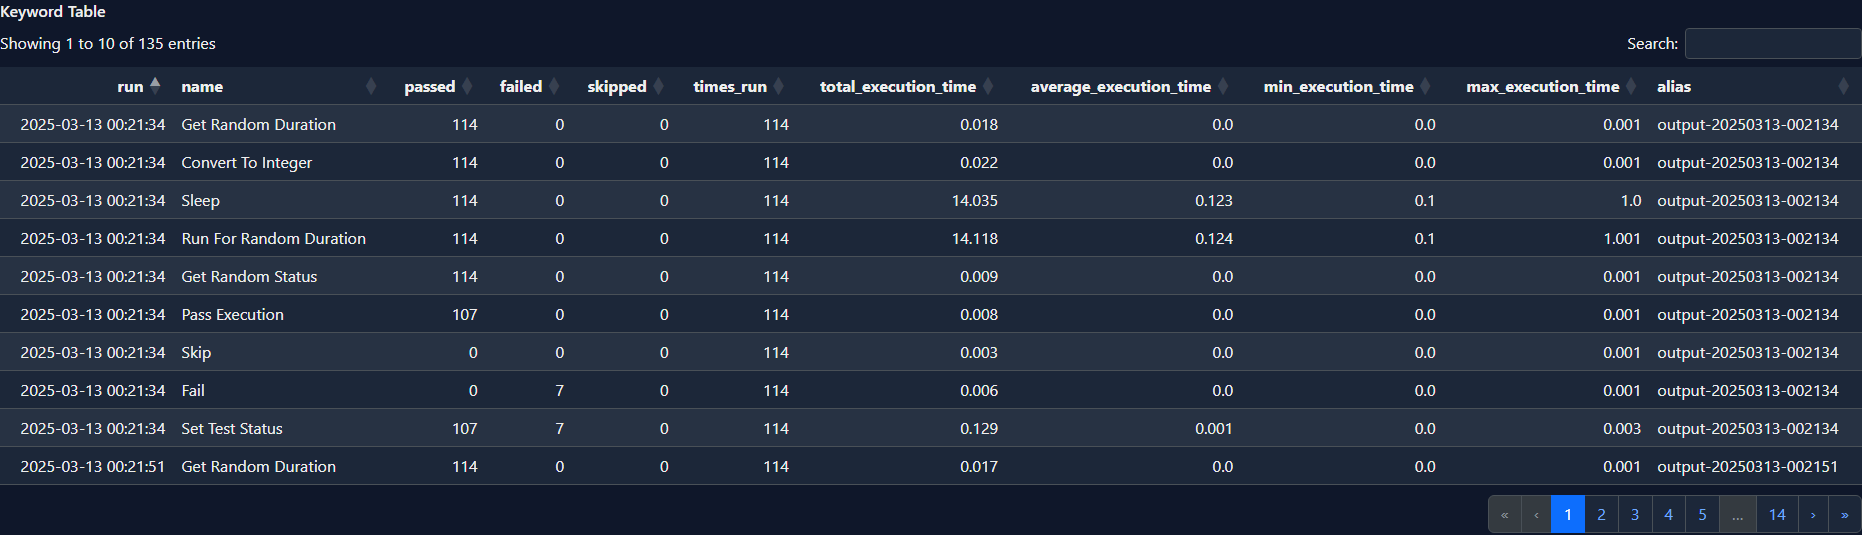
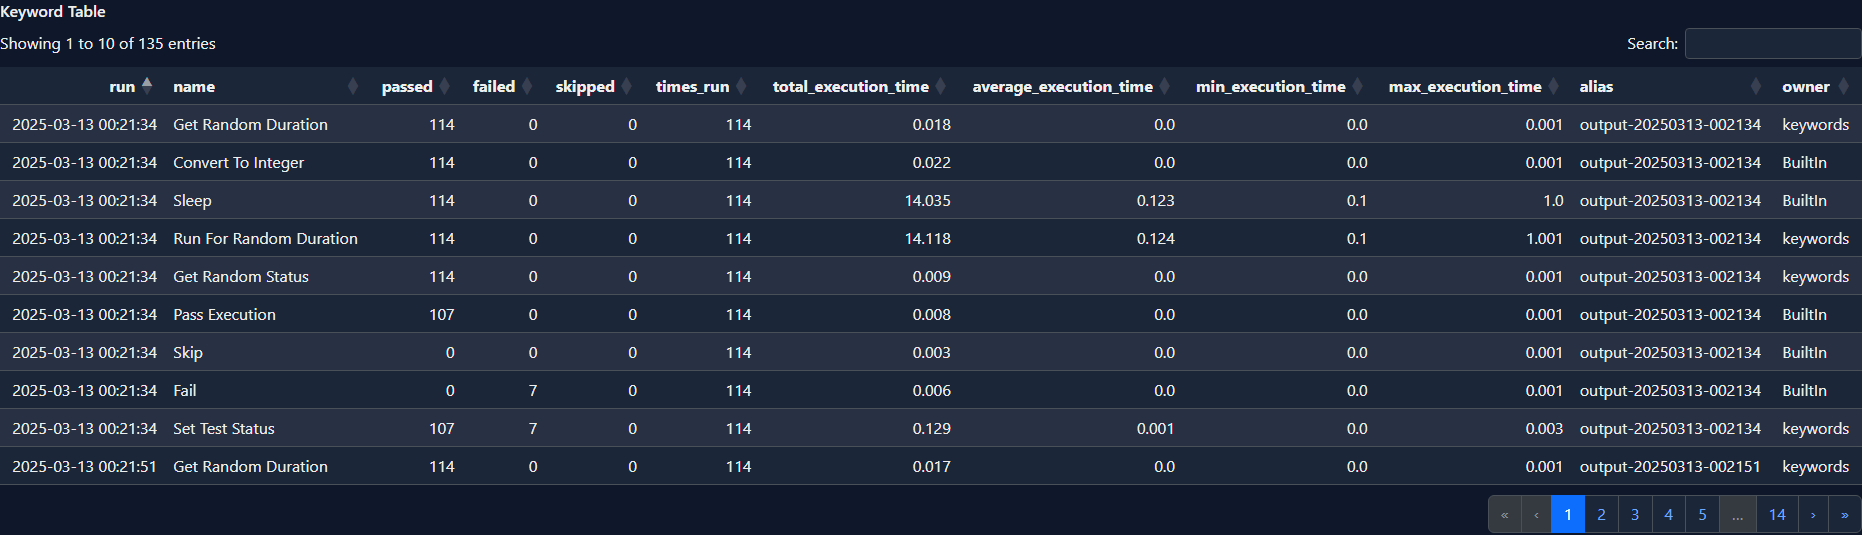
Test updates and added uselibrarynames switch

diff --git a/robotframework_dashboard/templates/dashboard.html b/robotframework_dashboard/templates/dashboard.html
@@ -700,6 +700,14 @@
                                         <select class="form-select form-select-sm" id="keywordSelect"></select>
                                     </div>
                                 </div>
+                                <div class="col-auto d-flex me-2">
+                                    <label class="form-check-label mb-0 me-2" for="switchUseLibraryNames">Use Library
+                                        Names</label>
+                                    <div class="form-check form-switch">
+                                        <input class="form-check-input" type="checkbox" role="switch"
+                                            id="switchUseLibraryNames" />
+                                    </div>
+                                </div>
                             </div>
                         </div>
                         <div class="col-auto ms-auto">
@@ -897,8 +905,8 @@
                 <div class="modal-content">
                     <div class="modal-header">
                         <h1 class="modal-title" id="settingsModalLabel">Settings</h1>
-                        <button type="button" class="btn btn-outline-light btn-sm mt-auto ms-5"
-                            data-bs-dismiss="modal" id="closeSettings">Close</button>
+                        <button type="button" class="btn btn-outline-light btn-sm mt-auto ms-5" data-bs-dismiss="modal"
+                            id="closeSettings">Close</button>
                     </div>
                     <div class="modal-body">
                         <ul class="nav nav-tabs" id="settingsTab" role="tablist">
@@ -2363,6 +2371,7 @@ Only Changes: Displays only tests that have changed statuses at some point in ti
                 suitePathsSuiteSection: false,
                 suitePathsTestSection: false,
                 suitePathsCompareSection: false,
+                useLibraryNames: false,
             },
             show: {
                 dateLabels: true,
@@ -3516,6 +3525,18 @@ Only Changes: Displays only tests that have changed statuses at some point in ti
                 create_keyword_min_duration_graph();
                 create_keyword_max_duration_graph();
             });
+            update_switch_local_storage("switch.useLibraryNames", settings.switch.useLibraryNames, true);
+            document.getElementById("switchUseLibraryNames").addEventListener("change", () => {
+                settings.switch.useLibraryNames = !settings.switch.useLibraryNames;
+                update_switch_local_storage("switch.useLibraryNames", settings.switch.useLibraryNames);
+                setup_keywords_in_select();
+                create_keyword_statistics_graph();
+                create_keyword_times_run_graph();
+                create_keyword_total_duration_graph();
+                create_keyword_average_duration_graph();
+                create_keyword_min_duration_graph();
+                create_keyword_max_duration_graph();
+            });
             // compare filters
             compareRunIds.forEach(id => {
                 const element = document.getElementById(id);
@@ -3931,9 +3952,27 @@ Only Changes: Displays only tests that have changed statuses at some point in ti
         function setup_keywords_in_select() {
             const keywordSelect = document.getElementById("keywordSelect");
             keywordSelect.innerHTML = "";
-            const keywordNames = [...new Set(filteredKeywords.map(keyword => keyword.name))].sort();
-            keywordNames.forEach(keywordName => keywordSelect.options.add(new Option(keywordName, keywordName)));
-            keywordSelect.selectedIndex = keywordNames.length - 1;
+            const useLibraryNames = settings?.switch?.useLibraryNames === true;
+
+            // Build display names depending on the setting
+            const keywordNames = [
+                ...new Set(
+                    filteredKeywords.map(keyword =>
+                        useLibraryNames && keyword.owner
+                            ? `${keyword.owner}.${keyword.name}`
+                            : keyword.name
+                    )
+                )
+            ].sort();
+
+            // Add options to select
+            keywordNames.forEach(keywordName => {
+                keywordSelect.options.add(new Option(keywordName, keywordName));
+            });
+            // Optionally select the last one
+            if (keywordNames.length > 0) {
+                keywordSelect.selectedIndex = keywordNames.length - 1;
+            }
         }
 
         ///////////////////////////
@@ -5952,6 +5991,7 @@ Only Changes: Displays only tests that have changed statuses at some point in ti
         function get_statistics_graph_data(dataType, graphType, filteredData) {
             const suiteSelectSuitesCombined = document.getElementById("suiteSelectSuites").value === "All Suites Combined";
             const keywordSelect = document.getElementById("keywordSelect").value;
+            const useLibraryNames = settings?.switch?.useLibraryNames === true;
             const rawPassed = [], rawFailed = [], rawSkipped = [], labels = [], aliases = [];
             let names = [];
             const process_value = (value) => {
@@ -5964,7 +6004,12 @@ Only Changes: Displays only tests that have changed statuses at some point in ti
             };
             for (const value of filteredData) {
                 if (exclude_from_suite_data(dataType, value)) continue;
-                if (dataType === "keyword" && value.name !== keywordSelect) continue;
+                if (dataType === "keyword") {
+                    const keywordKey = useLibraryNames && value.owner
+                        ? `${value.owner}.${value.name}`
+                        : value.name;
+                    if (keywordKey !== keywordSelect) continue;
+                }
                 process_value(value);
             }
             const finalLabels = graphType !== "line" ? (settings.show.aliases ? aliases : labels) : labels;
@@ -6450,18 +6495,36 @@ Only Changes: Displays only tests that have changed statuses at some point in ti
             const testSelect = document.getElementById("testSelect").value;
             const testTagsSelect = document.getElementById("testTagsSelect").value;
             const keywordSelect = document.getElementById("keywordSelect").value;
+            const useLibraryNames = settings?.switch?.useLibraryNames === true;
             const limit = inFullscreen && inFullscreenGraph.includes("Duration") ? 100 : 30;
-
             const should_include = (value) => {
-                if (dataType === "keyword" && value.name !== keywordSelect) return false;
+                // --- keyword filtering ---
+                if (dataType === "keyword") {
+                    const keywordKey = useLibraryNames && value.owner
+                        ? `${value.owner}.${value.name}`
+                        : value.name;
+
+                    if (keywordKey !== keywordSelect) return false;
+                }
+                // --- suite/test filtering ---
                 if (exclude_from_suite_data(dataType, value)) return false;
                 if (settings.switch.suitePathsTestSection) {
-                    if (dataType === "test" && suiteSelectTests !== "All" && value.full_name !== `${suiteSelectTests}.${value.name}`) return false;
+                    if (dataType === "test" && suiteSelectTests !== "All" &&
+                        value.full_name !== `${suiteSelectTests}.${value.name}`) {
+                        return false;
+                    }
                 } else {
-                    if (dataType === "test" && suiteSelectTests !== "All" && !value.full_name.includes(`.${suiteSelectTests}.${value.name}`) && value.full_name !== `${suiteSelectTests}.${value.name}`) return false;
+                    if (dataType === "test" && suiteSelectTests !== "All" &&
+                        !value.full_name.includes(`.${suiteSelectTests}.${value.name}`) &&
+                        value.full_name !== `${suiteSelectTests}.${value.name}`) {
+                        return false;
+                    }
                 }
                 if (dataType === "test" && testSelect !== "All" && value.name !== testSelect) return false;
-                if (dataType === "test" && testTagsSelect !== "All" && !value.tags.replace(/\[|\]/g, "").split(",").includes(testTagsSelect)) return false;
+                if (dataType === "test" && testTagsSelect !== "All") {
+                    const tags = value.tags?.replace(/\[|\]/g, "").split(",").map(t => t.trim()) || [];
+                    if (!tags.includes(testTagsSelect)) return false;
+                }
                 return true;
             };
 
